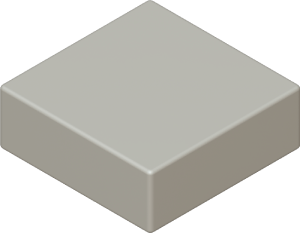
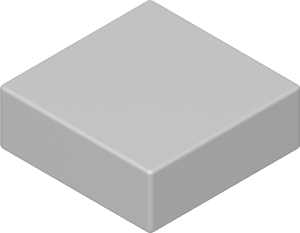
implement tiling pattern and red tile

Changed region(s): [[0.0, 0.3605, 1.0, 1.0]]

diff --git a/src/components/Board/Board.jsx b/src/components/Board/Board.jsx
@@ -1,27 +1,34 @@
 import React from "react";
 import Tile from "../Tile";
-import tileWhite from "../../assets/images/tile-white-2.png";
+import tileWhite from "../../assets/images/tile-white.png";
+import tileBlack from "../../assets/images/tile-black.png";
+import tileRed from "../../assets/images/tile-red.png";
 
 const Board = () => {
   const board = [
     ["empty", "empty", "empty", "empty"],
     ["empty", "empty", "empty", null],
     ["empty", "empty", "empty", null],
-    ["empty", "empty", "empty", "empty"],
+    ["empty", "empty", "empty", "empty red"],
   ];
 
   let currentRow = 0;
   let tiles = [];
+  let color;
 
-  const TILE_HEIGHT_IN_PX = 160;
+  const TILE_HEIGHT_IN_PX = 124;
   const TILE_WIDTH_IN_PX = 160;
 
   board.forEach((row) => {
+    currentRow % 2 === 0 ? (color = tileWhite) : (color = tileBlack);
+
     row.forEach((tile, index) => {
-      if (tile) {
-        const tileObject = { xpos: index, ypos: currentRow };
-        tiles.push(tileObject);
-      }
+      if (!tile) return;
+      if (tile.includes("red")) color = tileRed;
+      const tileObject = { xpos: index, ypos: currentRow, color: color };
+      tiles.push(tileObject);
+
+      color === tileBlack ? (color = tileWhite) : (color = tileBlack);
     });
     currentRow++;
   });
@@ -32,15 +39,15 @@ const Board = () => {
     <div style={{ position: "relative" }}>
       {tiles.map((tile, index) => (
         <img
-          src={tileWhite}
+          src={tile.color}
           width={`${TILE_WIDTH_IN_PX}px`}
           height={`${TILE_HEIGHT_IN_PX}px`}
           key={index}
           style={{
             position: "absolute",
             top: `${
-              tile.xpos * 0.29 * TILE_HEIGHT_IN_PX +
-              tile.ypos * 0.29 * TILE_HEIGHT_IN_PX
+              tile.xpos * 0.37 * TILE_HEIGHT_IN_PX +
+              tile.ypos * 0.37 * TILE_HEIGHT_IN_PX
             }px`,
             left: `${
               tile.xpos * 0.5 * TILE_WIDTH_IN_PX +
